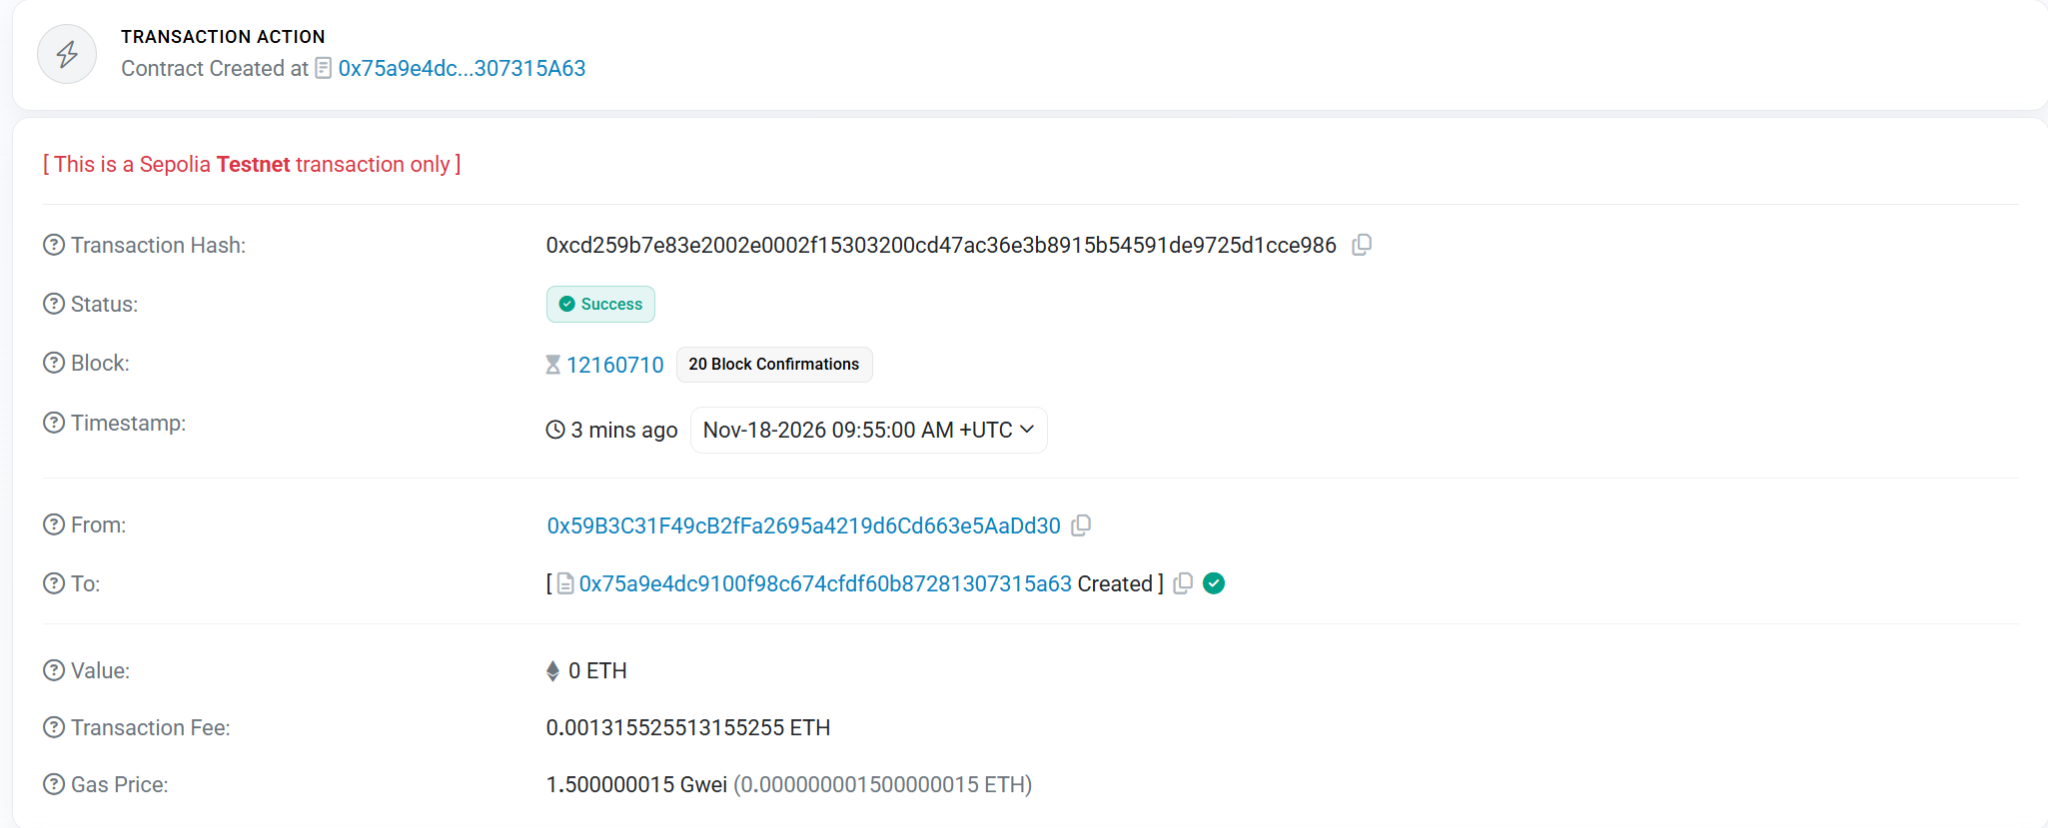
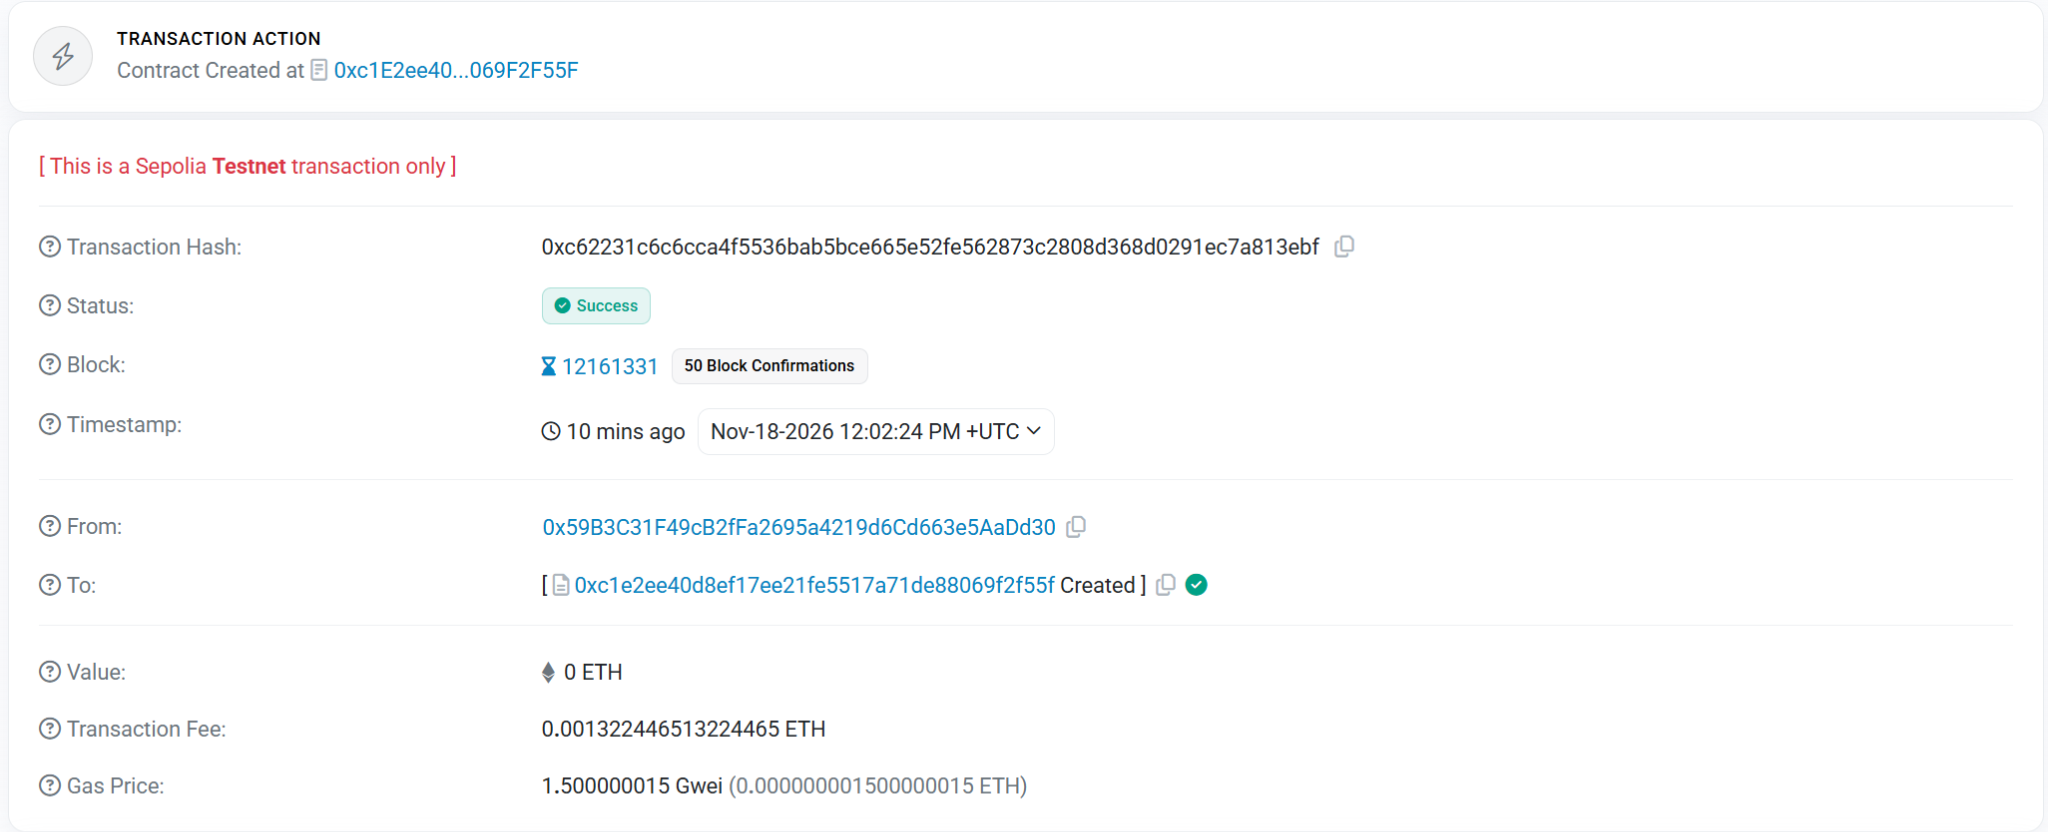
Fix Counter contract interface and update Sepolia deployment evidence

diff --git a/03-counter/README.md b/03-counter/README.md
@@ -1,54 +1,55 @@
-# Lab 03 — Counter 智能合约
+# Lab 03 — Counter Smart Contract
 
-本实验使用 Solidity 实现链上计数器，通过 Remix VM 验证累加行为，再由钱包所有者部署到 Sepolia 测试网。
+This lab implements an on-chain counter in Solidity, tests its accumulation behavior in Remix VM, and documents deployment to the Sepolia testnet by the wallet owner.
 
-- `uint256 public count`：保存计数值，部署后默认为 `0`。Solidity 自动生成只读的 `count()`。
-- `add(uint256 x)`：执行 `count += x`。任何地址都能调用；`x` 为 `0` 时值不变，溢出时交易回滚。
-- 编译器：Solidity `0.8.30`。Remix 中关闭优化，EVM Version 保持编译器默认设置。
+- `uint256 private counter`: Stores the counter value, which starts at `0`.
+- `get()`: Returns the current value without modifying state.
+- `add(uint256 x)`: Executes `counter += x`. Any address can call it. Adding `0` leaves the count unchanged; overflow reverts the transaction.
+- Compiler: Solidity `0.8.30`. In Remix, disable optimization and leave the EVM version at the compiler default.
 
-## Remix VM 手动测试
+## Manual Testing in Remix VM
 
-1. 在 [Remix](https://remix.ethereum.org/) 的 File Explorer 中新建 `Counter.sol`，复制本目录的源码。
-2. 在 **Solidity Compiler** 中选择 `0.8.30`，点击 **Compile Counter.sol**。
-3. 在 **Deploy & Run Transactions** 中选择 **Remix VM**，选中 `Counter` 并点击 **Deploy**。
-4. 展开 **Deployed Contracts** 中的新实例，按表操作。每次 `add` 后确认交易成功，再点击 `count`；切换账户后继续使用同一个实例。
+1. In the [Remix](https://remix.ethereum.org/) File Explorer, create `Counter.sol` and paste the source from this directory.
+2. In **Solidity Compiler**, select `0.8.30` and click **Compile Counter.sol**.
+3. In **Deploy & Run Transactions**, select **Remix VM** as the environment, select `Counter`, and click **Deploy**.
+4. Expand the new instance under **Deployed Contracts** and follow the steps below. After each `add` call, confirm that the transaction succeeds, then call `get()`. Keep using the same instance when switching accounts.
 
-| 步骤 | 操作 | `count()` 预期值 | 实测值 |
+| Step | Action | Expected `get()` | Observed `get()` |
 | --- | --- | ---: | --- |
-| 1 | 部署后直接读取 `count()` | 0 | 0 |
-| 2 | 使用部署账户调用 `add(5)` | 5 | 5 |
-| 3 | 切换到另一个 Remix VM 账户，调用 `add(3)` | 8 | 8 |
-| 4 | 调用 `add(0)` | 8 | 8 |
+| 1 | Read `get()` immediately after deployment | 0 | 0 |
+| 2 | Call `add(5)` from Account 1 | 5 | 5 |
+| 3 | Switch to Account 2 and call `add(3)` | 8 | 8 |
+| 4 | Call `add(0)` | 8 | 8 |
 
-## Sepolia 部署
+## Sepolia Deployment
 
-1. 通过 VM 测试后，在 MetaMask 切换到 Sepolia（链 ID `11155111`），确认账户有足够的 Sepolia 测试 ETH 支付 gas。
-2. 在 Remix 的 **Deploy & Run Transactions** 中选择浏览器钱包环境（如 **Injected Provider - MetaMask**）。由钱包所有者确认连接，并核对网络和账户。
-3. 选择 `Counter`，保持 **Value** 为 `0`，点击 **Deploy**。由钱包所有者核对并确认交易，等待链上确认。
-4. 读取新实例的 `count()`（预期 `0`），调用 `add(5)` 并在钱包确认，交易成功后再次读取（预期 `5`）。
-5. 切换到 Account 2，对同一合约调用 `add(3)`，交易成功后读取 `count()`（预期 `8`）。
+1. After the VM tests pass, switch MetaMask to Sepolia (chain ID `11155111`) and ensure the account has enough Sepolia test ETH to pay for gas.
+2. In Remix's **Deploy & Run Transactions** panel, select a browser wallet environment (for example, **Injected Provider - MetaMask**). Have the wallet owner approve the connection and verify the network and account.
+3. Select `Counter`, leave **Value** at `0`, and click **Deploy**. Have the wallet owner review and approve the transaction, then wait for on-chain confirmation.
+4. Read `get()` on the new instance (expected: `0`), call `add(5)`, and confirm it in the wallet. Once the transaction succeeds, read `get()` again (expected: `5`).
+5. Switch to Account 2, call `add(3)` on the same contract, and read `get()` after the transaction succeeds (expected: `8`).
 
-## 作业凭证
+## Deployment Evidence
 
-网络：Sepolia（链 ID `11155111`）。
+Network: Sepolia (chain ID `11155111`).
 
-根据提交者提供的实测记录，Sepolia 部署成功，初始 `count()` 为 `0`；Account 1 调用 `add(5)` 后为 `5`，Account 2 在同一合约上调用 `add(3)` 后为 `8`。`add(0)` 仅在 Remix VM 测试。上述结果来自提交者，未独立核验链上记录。
+In the lab author's manual test, deployment succeeded and `get()` started at `0`. Account 1 called `add(5)`, bringing the count to `5`; Account 2 called `add(3)` on the same contract, bringing it to `8`. `add(0)` was tested only in Remix VM. The Sepolia records were not independently verified on-chain.
 
-| 项目 | 地址或交易 Hash | 浏览器凭证 |
+| Item | Address or Transaction Hash | Explorer Link |
 | --- | --- | --- |
-| 合约地址 | `0x75a9e4dc9100F98c674cfdf60B87281307315A63` | [Etherscan](https://sepolia.etherscan.io/address/0x75a9e4dc9100F98c674cfdf60B87281307315A63) |
[3 lines of base64/hex data omitted]
+| Contract address | `0xc1E2ee40d8EF17eE21fe5517A71dE88069F2F55F` | [Etherscan](https://sepolia.etherscan.io/address/0xc1E2ee40d8EF17eE21fe5517A71dE88069F2F55F) |
[3 lines of base64/hex data omitted]
 
-## 截图清单
+## Screenshots
 
-现有截图包括 1 张 Remix VM 截图和 4 张 Sepolia 凭证：
+The evidence includes one Remix VM screenshot and four Sepolia screenshots:
 
-- [Remix VM：本地测试](screenshots/01-remix-vm.png)
-- [Remix：Sepolia 合约的 `count = 8`](screenshots/02-sepolia-count.png)
-- [Etherscan：部署成功](screenshots/03-deployment.png)
-- [Etherscan：第一个账户调用成功](screenshots/04-add5.png)
-- [Etherscan：第二个账户调用同一合约成功](screenshots/05-add3.png)
+- [Remix VM: Local test](screenshots/01-remix-vm.png)
+- [Remix: Sepolia contract with `get() = 8`](screenshots/02-sepolia-count.png)
+- [Etherscan: Successful deployment](screenshots/03-deployment.png)
+- [Etherscan: Successful call from the first account](screenshots/04-add5.png)
+- [Etherscan: Successful call to the same contract from the second account](screenshots/05-add3.png)
 
-三笔交易截图中的 Hash 和合约地址与上表一致。调用截图未展示完整输入数据；参数及中间计数来自实测记录。Remix VM 各步骤的实测结果见测试表。详见[截图索引](screenshots/README.md)。
+The transaction hashes and contract address shown in the screenshots match the table above. The call screenshots do not show the full transaction input; the arguments and intermediate counts are from the manual test record. The Remix VM table lists the observed result for each step. See the [screenshot index](screenshots/README.md) for details.

diff --git a/03-counter/screenshots/README.md b/03-counter/screenshots/README.md
@@ -1,11 +1,11 @@
-# 截图索引
+# Screenshot Index
 
-| 截图 | 实验凭证 |
+| Screenshot | Evidence |
 | --- | --- |
-| [01-remix-vm.png](01-remix-vm.png) | Remix VM 本地测试 |
-| [02-sepolia-count.png](02-sepolia-count.png) | Remix 的 Sepolia 环境和最终 `count = 8` |
-| [03-deployment.png](03-deployment.png) | Etherscan 部署成功、交易 Hash 和创建的合约地址 |
-| [04-add5.png](04-add5.png) | 首次调用成功、交易 Hash、发送者和目标合约 |
-| [05-add3.png](05-add3.png) | 第二次调用成功、交易 Hash、不同的发送者和同一目标合约 |
+| [01-remix-vm.png](01-remix-vm.png) | Remix VM with Account 2 selected and a final `get()` result of `8` |
+| [02-sepolia-count.png](02-sepolia-count.png) | Revised contract on Sepolia in Remix, with a final `get()` result of `8` |
+| [03-deployment.png](03-deployment.png) | Successful deployment on Etherscan, including the transaction hash and new contract address |
+| [04-add5.png](04-add5.png) | Successful first call, including the transaction hash, sender, and target contract |
+| [05-add3.png](05-add3.png) | Successful second call, including the transaction hash, a different sender, and the same target contract |
 
-Remix VM 各步骤的实测结果见[项目 README](../README.md#remix-vm-手动测试)。截图不要包含私钥或助记词。
+For the observed result of each Remix VM test step, see the [lab README](../README.md#manual-testing-in-remix-vm). Do not include private keys or recovery phrases in screenshots.
